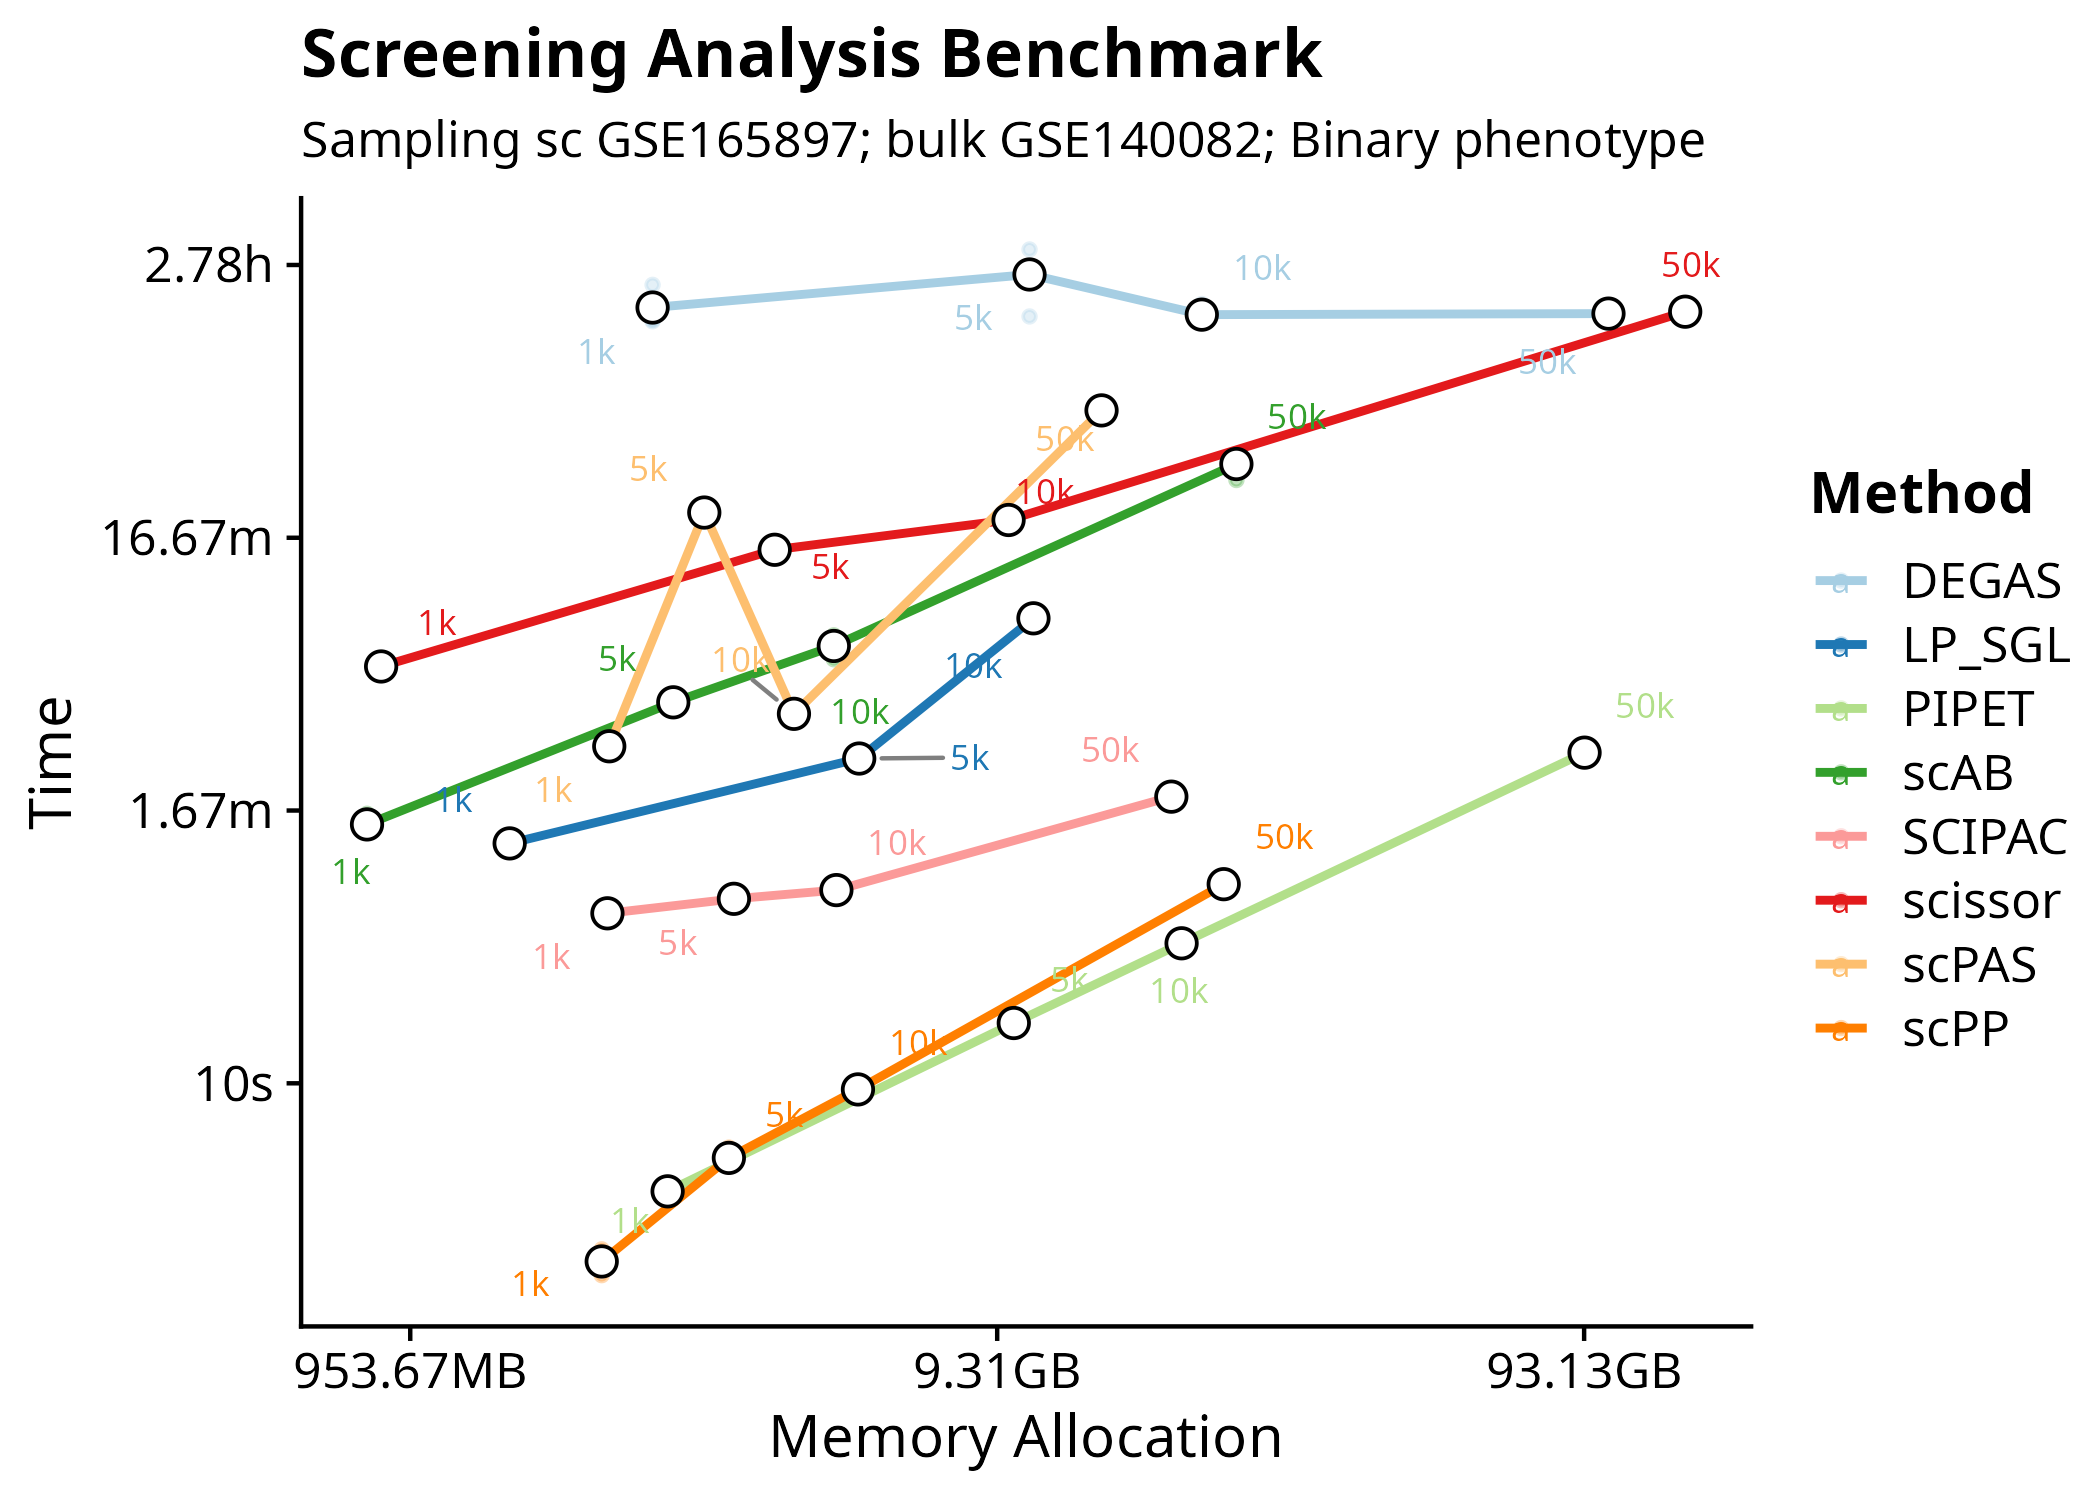
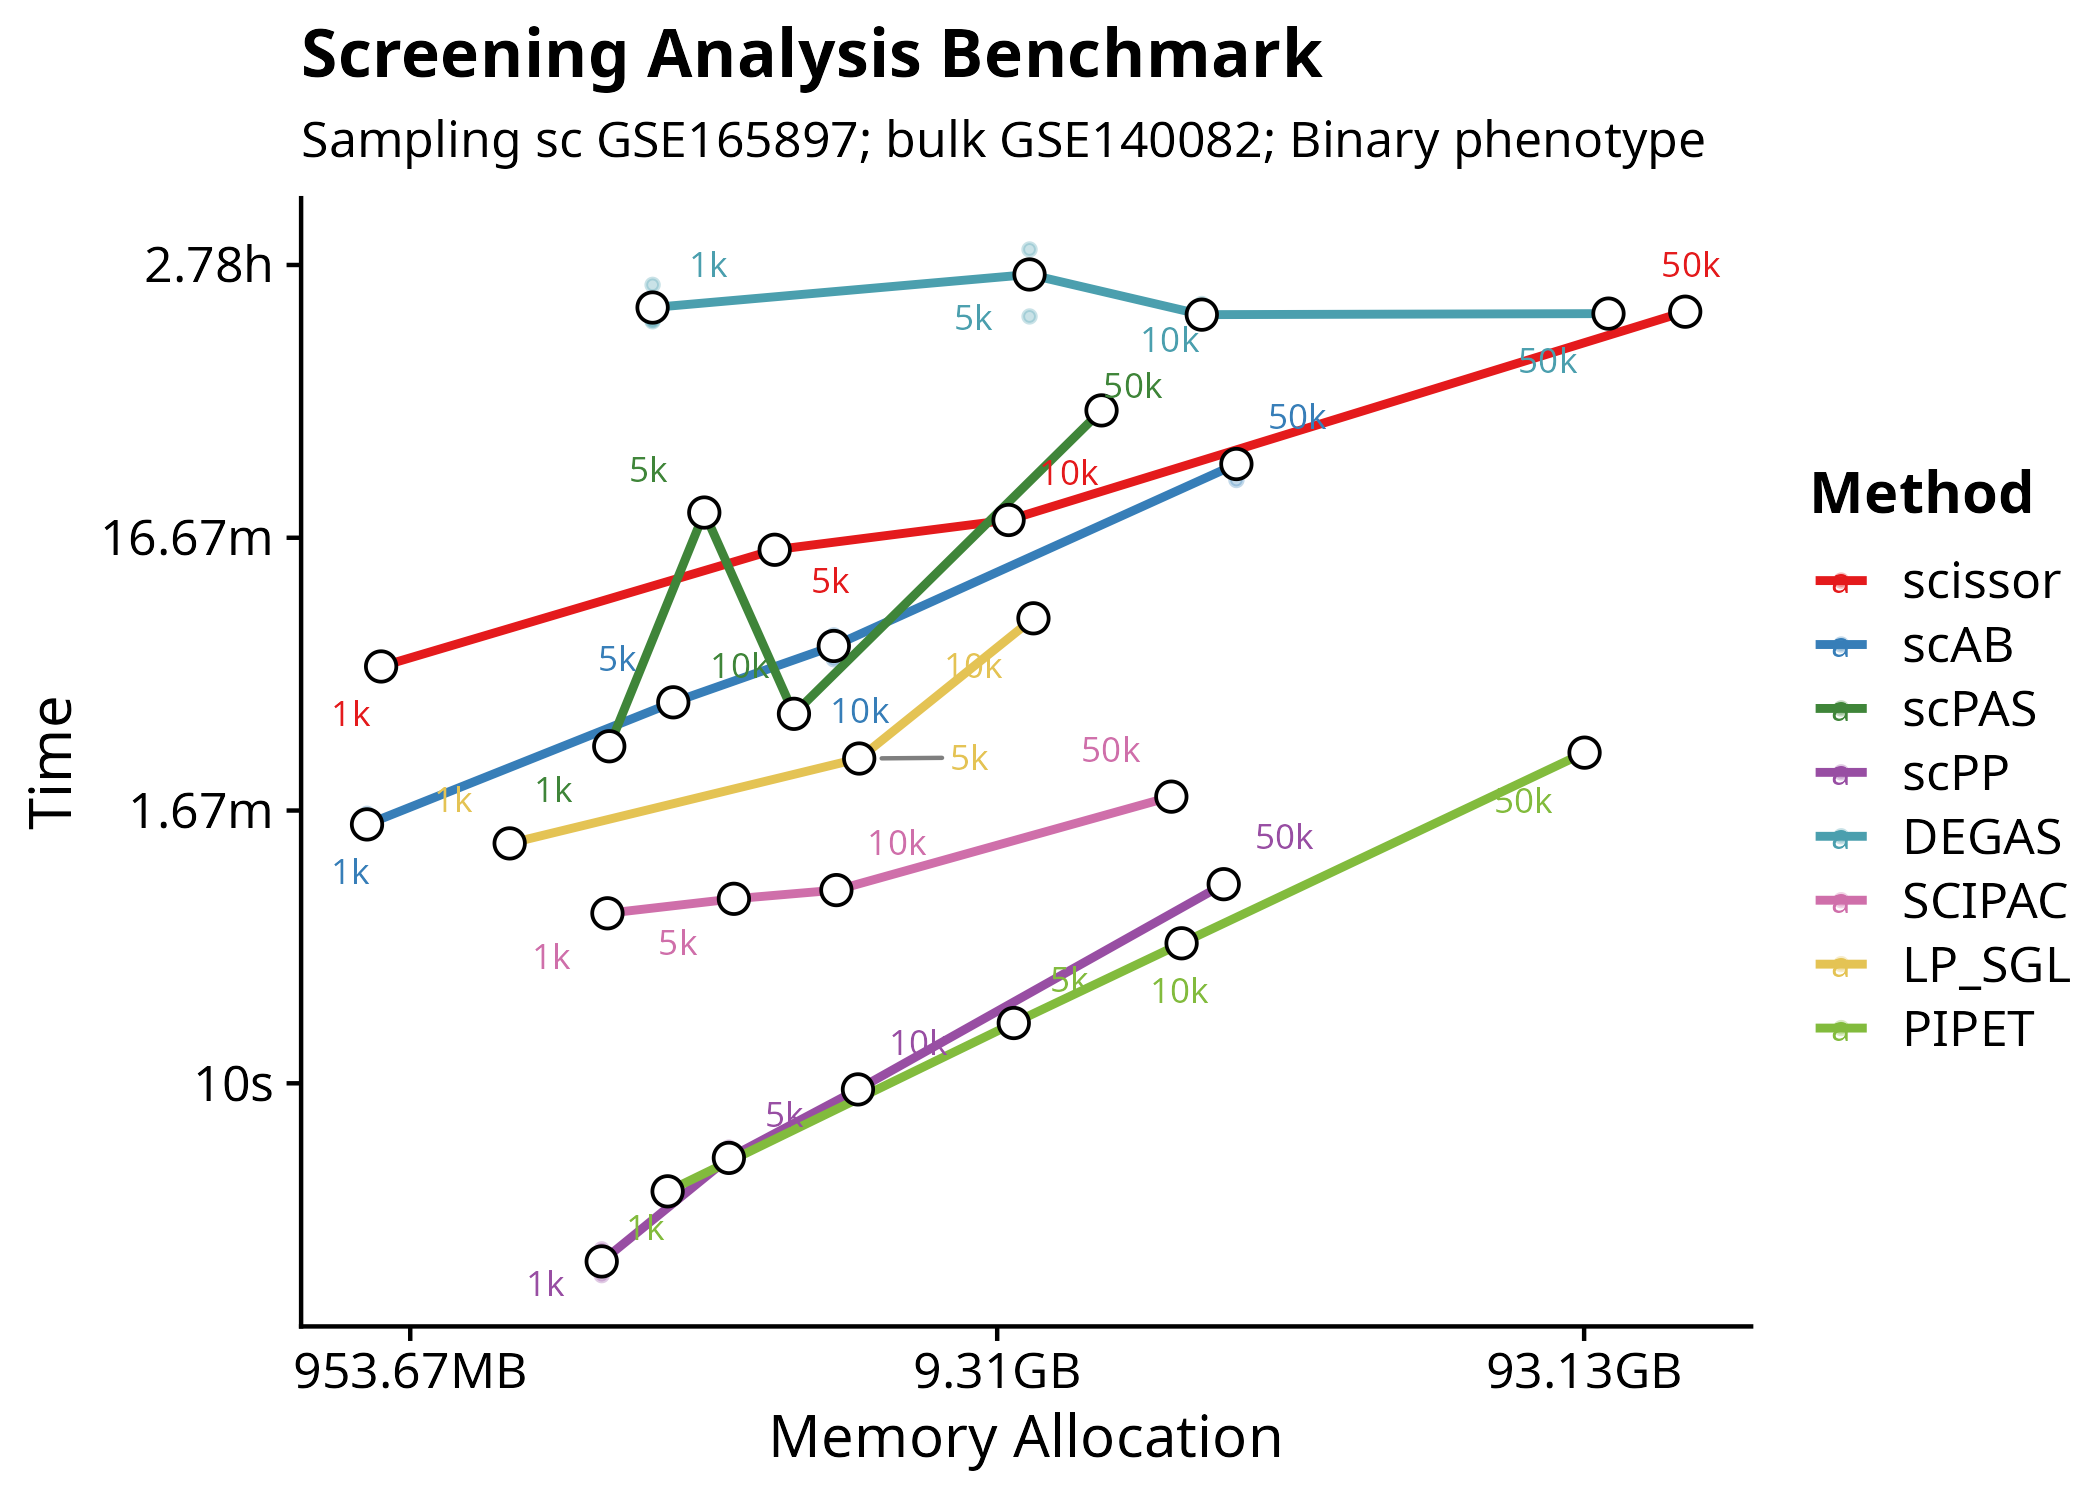
update license and figures

diff --git a/LICENSE-data.md b/LICENSE-data.md
@@ -1,0 +1,43 @@
+## creative commons
+
+# CC0 1.0 Universal
+
+CREATIVE COMMONS CORPORATION IS NOT A LAW FIRM AND DOES NOT PROVIDE LEGAL SERVICES. DISTRIBUTION OF THIS DOCUMENT DOES NOT CREATE AN ATTORNEY-CLIENT RELATIONSHIP. CREATIVE COMMONS PROVIDES THIS INFORMATION ON AN "AS-IS" BASIS. CREATIVE COMMONS MAKES NO WARRANTIES REGARDING THE USE OF THIS DOCUMENT OR THE INFORMATION OR WORKS PROVIDED HEREUNDER, AND DISCLAIMS LIABILITY FOR DAMAGES RESULTING FROM THE USE OF THIS DOCUMENT OR THE INFORMATION OR WORKS PROVIDED HEREUNDER.
+
+### Statement of Purpose
+
+The laws of most jurisdictions throughout the world automatically confer exclusive Copyright and Related Rights (defined below) upon the creator and subsequent owner(s) (each and all, an "owner") of an original work of authorship and/or a database (each, a "Work").
+
+Certain owners wish to permanently relinquish those rights to a Work for the purpose of contributing to a commons of creative, cultural and scientific works ("Commons") that the public can reliably and without fear of later claims of infringement build upon, modify, incorporate in other works, reuse and redistribute as freely as possible in any form whatsoever and for any purposes, including without limitation commercial purposes. These owners may contribute to the Commons to promote the ideal of a free culture and the further production of creative, cultural and scientific works, or to gain reputation or greater distribution for their Work in part through the use and efforts of others.
+
+For these and/or other purposes and motivations, and without any expectation of additional consideration or compensation, the person associating CC0 with a Work (the "Affirmer"), to the extent that he or she is an owner of Copyright and Related Rights in the Work, voluntarily elects to apply CC0 to the Work and publicly distribute the Work under its terms, with knowledge of his or her Copyright and Related Rights in the Work and the meaning and intended legal effect of CC0 on those rights.
+
+1. __Copyright and Related Rights.__ A Work made available under CC0 may be protected by copyright and related or neighboring rights ("Copyright and Related Rights"). Copyright and Related Rights include, but are not limited to, the following:
+
+    i. the right to reproduce, adapt, distribute, perform, display, communicate, and translate a Work;
+
+    ii. moral rights retained by the original author(s) and/or performer(s);
+
+    iii. publicity and privacy rights pertaining to a person's image or likeness depicted in a Work;
+
+    iv. rights protecting against unfair competition in regards to a Work, subject to the limitations in paragraph 4(a), below;
+
+    v. rights protecting the extraction, dissemination, use and reuse of data in a Work;
+
+    vi. database rights (such as those arising under Directive 96/9/EC of the European Parliament and of the Council of 11 March 1996 on the legal protection of databases, and under any national implementation thereof, including any amended or successor version of such directive); and
+
+    vii. other similar, equivalent or corresponding rights throughout the world based on applicable law or treaty, and any national implementations thereof.
+
+2. __Waiver.__ To the greatest extent permitted by, but not in contravention of, applicable law, Affirmer hereby overtly, fully, permanently, irrevocably and unconditionally waives, abandons, and surrenders all of Affirmer's Copyright and Related Rights and associated claims and causes of action, whether now known or unknown (including existing as well as future claims and causes of action), in the Work (i) in all territories worldwide, (ii) for the maximum duration provided by applicable law or treaty (including future time extensions), (iii) in any current or future medium and for any number of copies, and (iv) for any purpose whatsoever, including without limitation commercial, advertising or promotional purposes (the "Waiver"). Affirmer makes the Waiver for the benefit of each member of the public at large and to the detriment of Affirmer's heirs and successors, fully intending that such Waiver shall not be subject to revocation, rescission, cancellation, termination, or any other legal or equitable action to disrupt the quiet enjoyment of the Work by the public as contemplated by Affirmer's express Statement of Purpose.
+
+3. __Public License Fallback.__ Should any part of the Waiver for any reason be judged legally invalid or ineffective under applicable law, then the Waiver shall be preserved to the maximum extent permitted taking into account Affirmer's express Statement of Purpose. In addition, to the extent the Waiver is so judged Affirmer hereby grants to each affected person a royalty-free, non transferable, non sublicensable, non exclusive, irrevocable and unconditional license to exercise Affirmer's Copyright and Related Rights in the Work (i) in all territories worldwide, (ii) for the maximum duration provided by applicable law or treaty (including future time extensions), (iii) in any current or future medium and for any number of copies, and (iv) for any purpose whatsoever, including without limitation commercial, advertising or promotional purposes (the "License"). The License shall be deemed effective as of the date CC0 was applied by Affirmer to the Work. Should any part of the License for any reason be judged legally invalid or ineffective under applicable law, such partial invalidity or ineffectiveness shall not invalidate the remainder of the License, and in such case Affirmer hereby affirms that he or she will not (i) exercise any of his or her remaining Copyright and Related Rights in the Work or (ii) assert any associated claims and causes of action with respect to the Work, in either case contrary to Affirmer's express Statement of Purpose.
+
+4. __Limitations and Disclaimers.__
+
+    a. No trademark or patent rights held by Affirmer are waived, abandoned, surrendered, licensed or otherwise affected by this document.
+
+    b. Affirmer offers the Work as-is and makes no representations or warranties of any kind concerning the Work, express, implied, statutory or otherwise, including without limitation warranties of title, merchantability, fitness for a particular purpose, non infringement, or the absence of latent or other defects, accuracy, or the present or absence of errors, whether or not discoverable, all to the greatest extent permissible under applicable law.
+
+    c. Affirmer disclaims responsibility for clearing rights of other persons that may apply to the Work or any use thereof, including without limitation any person's Copyright and Related Rights in the Work. Further, Affirmer disclaims responsibility for obtaining any necessary consents, permissions or other rights required for any use of the Work.
+
+    d. Affirmer understands and acknowledges that Creative Commons is not a party to this document and has no duty or obligation with respect to this CC0 or use of the Work.

diff --git a/LICENSE.md b/LICENSE.md
@@ -1,0 +1,21 @@
+# MIT License
+
+Copyright (c) 2026 paper_SigBridgeR authors
+
+Permission is hereby granted, free of charge, to any person obtaining a copy
+of this software and associated documentation files (the "Software"), to deal
+in the Software without restriction, including without limitation the rights
+to use, copy, modify, merge, publish, distribute, sublicense, and/or sell
+copies of the Software, and to permit persons to whom the Software is
+furnished to do so, subject to the following conditions:
+
+The above copyright notice and this permission notice shall be included in all
+copies or substantial portions of the Software.
+
+THE SOFTWARE IS PROVIDED "AS IS", WITHOUT WARRANTY OF ANY KIND, EXPRESS OR
+IMPLIED, INCLUDING BUT NOT LIMITED TO THE WARRANTIES OF MERCHANTABILITY,
+FITNESS FOR A PARTICULAR PURPOSE AND NONINFRINGEMENT. IN NO EVENT SHALL THE
+AUTHORS OR COPYRIGHT HOLDERS BE LIABLE FOR ANY CLAIM, DAMAGES OR OTHER
+LIABILITY, WHETHER IN AN ACTION OF CONTRACT, TORT OR OTHERWISE, ARISING FROM,
+OUT OF OR IN CONNECTION WITH THE SOFTWARE OR THE USE OR OTHER DEALINGS IN THE
+SOFTWARE.

diff --git a/README.md b/README.md
@@ -7,3 +7,7 @@ setwd(usethis::proj_path())
 # or
 usethis::proj_activate(".")
 ```
+## License
+
+- **Code** (`*.R`, `*.py`, `*.cpp`, etc): [MIT](LICENSE.md)
+- **Data** (`*.csv`, `*.png`, `*.xlsx`, `*.qs2`, etc): [CC0 1.0](LICENSE-data.md)
